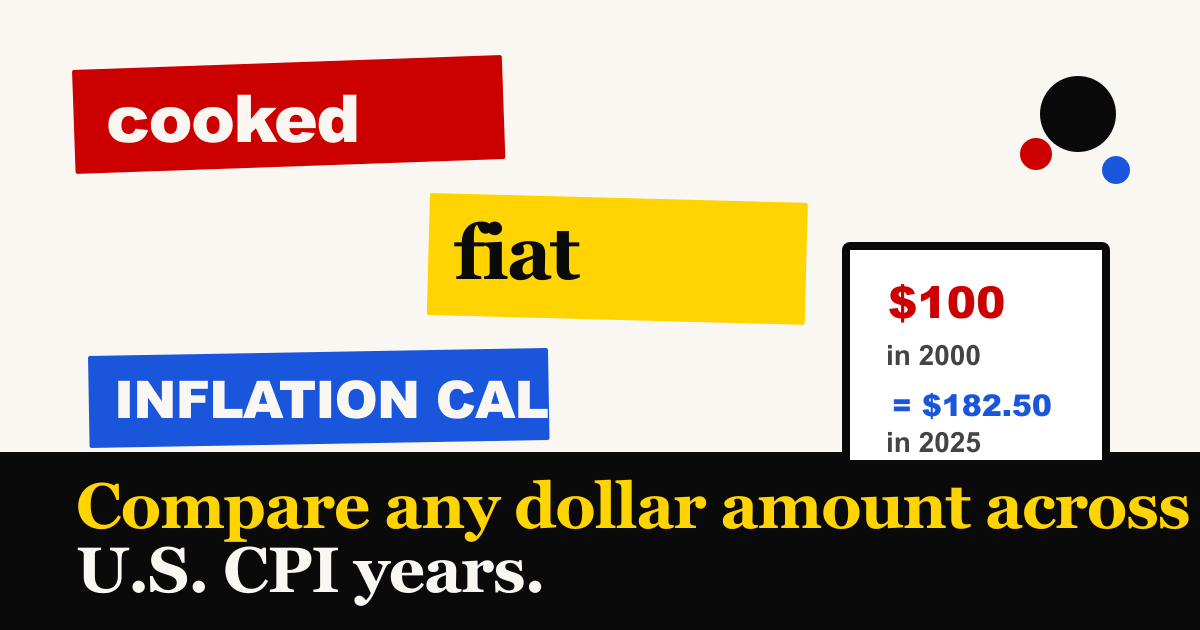
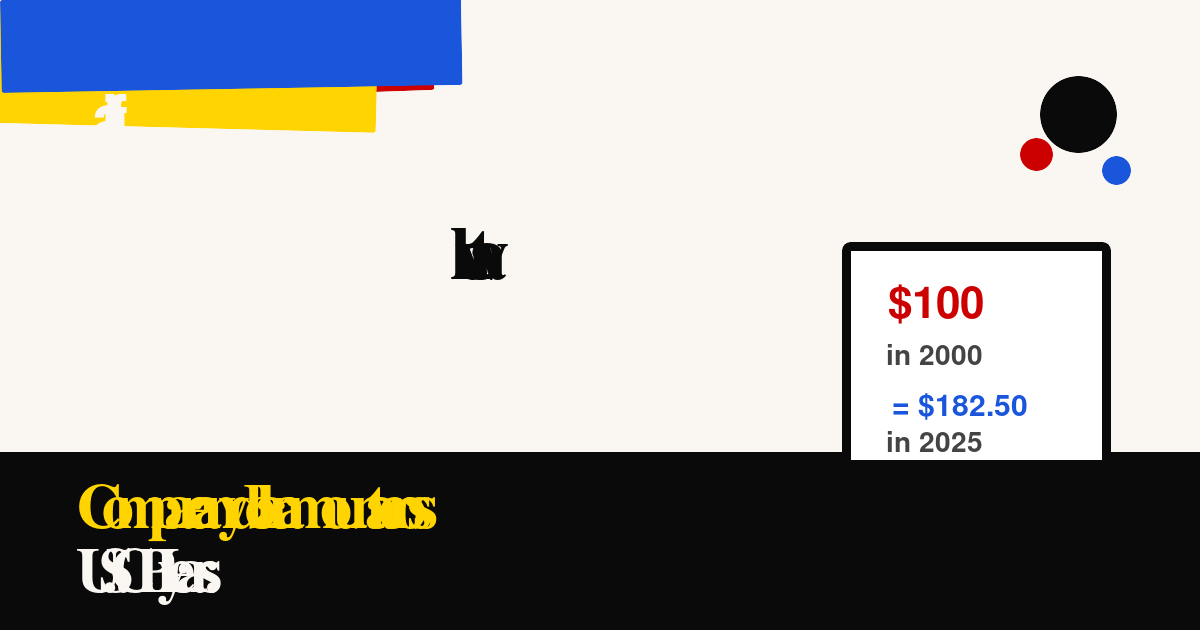
Rebrand app to Fiat Watch

diff --git a/app/controllers/seo_pages_controller.rb b/app/controllers/seo_pages_controller.rb
@@ -2,15 +2,15 @@ class SeoPagesController < ApplicationController
   PAGES = {
     "salary" => {
       path: "/salary-inflation-calculator",
-      title: "Salary Inflation Calculator With CPI Data | Cooked Fiat",
+      title: "Salary Inflation Calculator With CPI Data | Fiat Watch",
       heading: "Salary inflation calculator",
       description: "Compare a salary from one year to another using official BLS CPI data. See what old paychecks, raises, and job offers are worth in today's dollars.",
-      intro: "A raise can look bigger on paper than it feels in real life. Use Cooked Fiat to compare salaries across years and see whether compensation kept up with inflation.",
+      intro: "A raise can look bigger on paper than it feels in real life. Use Fiat Watch to compare salaries across years and see whether compensation kept up with inflation.",
       examples: [ "$45,000 in 2000", "$80,000 in 2015", "$100,000 in 1990" ]
     },
     "rent" => {
       path: "/rent-inflation-calculator",
-      title: "Rent Inflation Calculator With CPI Data | Cooked Fiat",
+      title: "Rent Inflation Calculator With CPI Data | Fiat Watch",
       heading: "Rent inflation calculator",
       description: "Compare rent prices across years with official BLS CPI data. Convert old monthly rent into today's purchasing power.",
       intro: "Rent is one of the clearest ways inflation shows up in everyday budgets. Compare an old lease, apartment listing, or housing cost against another year.",
@@ -18,7 +18,7 @@ class SeoPagesController < ApplicationController
     },
     "groceries" => {
       path: "/grocery-inflation-calculator",
-      title: "Grocery Inflation Calculator With CPI Data | Cooked Fiat",
+      title: "Grocery Inflation Calculator With CPI Data | Fiat Watch",
       heading: "Grocery inflation calculator",
       description: "Compare grocery spending across years with official BLS CPI data. Estimate what past food budgets mean in today's dollars.",
       intro: "Grocery budgets make inflation tangible. Convert an old weekly or monthly grocery bill into another year's dollars using the same CPI engine as the main calculator.",
@@ -26,7 +26,7 @@ class SeoPagesController < ApplicationController
     },
     "gas" => {
       path: "/gas-inflation-calculator",
-      title: "Gas Inflation Calculator With CPI Data | Cooked Fiat",
+      title: "Gas Inflation Calculator With CPI Data | Fiat Watch",
       heading: "Gas inflation calculator",
       description: "Compare gas prices across years with official BLS CPI data. Convert old fuel costs into today's dollars.",
       intro: "Gas prices are one of the easiest ways to feel inflation. Convert an old fill-up, gallon price, or fuel budget into another year's dollars.",
@@ -34,7 +34,7 @@ class SeoPagesController < ApplicationController
     },
     "car_prices" => {
       path: "/car-price-inflation-calculator",
-      title: "Car Price Inflation Calculator With CPI Data | Cooked Fiat",
+      title: "Car Price Inflation Calculator With CPI Data | Fiat Watch",
       heading: "Car price inflation calculator",
       description: "Compare car prices across years with official BLS CPI data. Convert old vehicle prices into today's dollars.",
       intro: "Sticker prices can be hard to compare across decades. Convert an old car price, loan amount, or down payment into another year's purchasing power.",
@@ -42,7 +42,7 @@ class SeoPagesController < ApplicationController
     },
     "college_tuition" => {
       path: "/college-tuition-inflation-calculator",
-      title: "College Tuition Inflation Calculator With CPI Data | Cooked Fiat",
+      title: "College Tuition Inflation Calculator With CPI Data | Fiat Watch",
       heading: "College tuition inflation calculator",
       description: "Compare college tuition and education costs across years with official BLS CPI data.",
       intro: "Tuition numbers move fast, and old prices can sound unreal. Convert tuition, fees, or student budgets into another year's dollars.",
@@ -50,7 +50,7 @@ class SeoPagesController < ApplicationController
     },
     "minimum_wage" => {
       path: "/minimum-wage-inflation-calculator",
-      title: "Minimum Wage Inflation Calculator With CPI Data | Cooked Fiat",
+      title: "Minimum Wage Inflation Calculator With CPI Data | Fiat Watch",
       heading: "Minimum wage inflation calculator",
       description: "See what an old hourly wage is worth today using official BLS CPI data.",
       intro: "Hourly pay only tells part of the story. Convert an old minimum wage, starting wage, or hourly rate into today's purchasing power.",

diff --git a/test/controllers/seo_pages_controller_test.rb b/test/controllers/seo_pages_controller_test.rb
@@ -5,10 +5,10 @@ class SeoPagesControllerTest < ActionDispatch::IntegrationTest
     get salary_inflation_calculator_path
 
     assert_response :success
-    assert_select "title", "Salary Inflation Calculator With CPI Data | Cooked Fiat"
+    assert_select "title", "Salary Inflation Calculator With CPI Data | Fiat Watch"
     assert_select "meta[name=?][content*=?]", "description", "Compare a salary"
     assert_select "link[rel=?][href$=?]", "canonical", salary_inflation_calculator_path
-    assert_select "meta[property=?][content=?]", "og:title", "Salary Inflation Calculator With CPI Data | Cooked Fiat"
+    assert_select "meta[property=?][content=?]", "og:title", "Salary Inflation Calculator With CPI Data | Fiat Watch"
     assert_select "meta[property=?][content*=?]", "og:description", "Compare a salary"
     assert_select "meta[property=?][content$=?]", "og:image", "/opengraph-card.png"
     assert_select "meta[property=?][content=?]", "og:image:width", "1200"
@@ -21,7 +21,7 @@ class SeoPagesControllerTest < ActionDispatch::IntegrationTest
     get rent_inflation_calculator_path
 
     assert_response :success
-    assert_select "title", "Rent Inflation Calculator With CPI Data | Cooked Fiat"
+    assert_select "title", "Rent Inflation Calculator With CPI Data | Fiat Watch"
     assert_select "h1", "Rent inflation calculator"
   end
 
@@ -29,7 +29,7 @@ class SeoPagesControllerTest < ActionDispatch::IntegrationTest
     get grocery_inflation_calculator_path
 
     assert_response :success
-    assert_select "title", "Grocery Inflation Calculator With CPI Data | Cooked Fiat"
+    assert_select "title", "Grocery Inflation Calculator With CPI Data | Fiat Watch"
     assert_select "h1", "Grocery inflation calculator"
   end
 
@@ -37,7 +37,7 @@ class SeoPagesControllerTest < ActionDispatch::IntegrationTest
     get gas_inflation_calculator_path
 
     assert_response :success
-    assert_select "title", "Gas Inflation Calculator With CPI Data | Cooked Fiat"
+    assert_select "title", "Gas Inflation Calculator With CPI Data | Fiat Watch"
     assert_select "h1", "Gas inflation calculator"
     assert_select "a[href=?]", "/#calc-heading"
 

diff --git a/test/controllers/calculations_controller_test.rb b/test/controllers/calculations_controller_test.rb
@@ -5,8 +5,8 @@ class CalculationsControllerTest < ActionDispatch::IntegrationTest
     get root_path
 
     assert_response :success
-    assert_select "title", "US Inflation Calculator With CPI Data | Cooked Fiat"
-    assert_select "meta[property=?][content=?]", "og:title", "US Inflation Calculator With CPI Data | Cooked Fiat"
+    assert_select "title", "US Inflation Calculator With CPI Data | Fiat Watch"
+    assert_select "meta[property=?][content=?]", "og:title", "US Inflation Calculator With CPI Data | Fiat Watch"
     assert_select "meta[property=?][content$=?]", "og:url", "/"
     assert_select "meta[property=?][content$=?]", "og:image", "/opengraph-card.png"
     assert_select "meta[name=?][content$=?]", "twitter:image", "/opengraph-card.png"
@@ -16,7 +16,7 @@ class CalculationsControllerTest < ActionDispatch::IntegrationTest
     get calculation_path, params: { amount: "100", from_year: "2000", to_year: CpiCalculator.latest_year }
 
     assert_response :success
-    assert_select "meta[property=?][content=?]", "og:title", "CPI Inflation Calculator: 2000 to #{CpiCalculator.latest_year} | Cooked Fiat"
+    assert_select "meta[property=?][content=?]", "og:title", "CPI Inflation Calculator: 2000 to #{CpiCalculator.latest_year} | Fiat Watch"
     assert_select "meta[property=?][content*=?]", "og:description", "same purchasing power"
     assert_select "[data-analytics-event-name-value=?]", "calculation_completed"
     assert_select "[data-analytics-params-value*=?]", '"amount":100.0'
@@ -24,7 +24,7 @@ class CalculationsControllerTest < ActionDispatch::IntegrationTest
     assert_select "[data-analytics-params-value*=?]", '"to_year":' + CpiCalculator.latest_year.to_s
     assert_select "aside[aria-label=?]", "Advertising" do
       assert_select "p", text: "Your ad here"
-      assert_select "a[href^=?]", "mailto:[email redacted]"
+      assert_select "a[href^=?]", "mailto:[email redacted]"
     end
   end
 

diff --git a/app/controllers/calculations_controller.rb b/app/controllers/calculations_controller.rb
@@ -45,10 +45,10 @@ class CalculationsController < ApplicationController
 
   def set_seo_for_index
     if @result
-      @page_title = "CPI Inflation Calculator: #{@result.from_year} to #{@result.to_year} | Cooked Fiat"
+      @page_title = "CPI Inflation Calculator: #{@result.from_year} to #{@result.to_year} | Fiat Watch"
       @meta_description = "#{@result.amount_formatted} in #{@result.from_year} has the same purchasing power as #{@result.converted_formatted} in #{@result.to_year}. #{@result.cumulative_inflation_text} CPI-based inflation calculator."
     else
-      @page_title = "US Inflation Calculator With CPI Data | Cooked Fiat"
+      @page_title = "US Inflation Calculator With CPI Data | Fiat Watch"
       @meta_description = "Find out what your money was really worth. Compare the purchasing power of any US dollar amount between #{CpiCalculator.earliest_year} and #{CpiCalculator.latest_year} using official BLS CPI data."
     end
     @canonical_path = canonical_path_for_current_request

diff --git a/app/controllers/sitemap_controller.rb b/app/controllers/sitemap_controller.rb
@@ -18,8 +18,8 @@ class SitemapController < ApplicationController
   end
 
   def show
-    @page_title = "Sitemap | Cooked Fiat"
-    @meta_description = "Browse Cooked Fiat inflation calculators and historical cost pages."
+    @page_title = "Sitemap | Fiat Watch"
+    @meta_description = "Browse Fiat Watch inflation calculators and historical cost pages."
     @canonical_path = html_sitemap_path
     @calculator_pages = CALCULATOR_PAGES.map { |label, route| [ label, public_send(route) ] }
     @cost_pages = AveragePriceCatalog.entries.group_by(&:first)

diff --git a/app/helpers/application_helper.rb b/app/helpers/application_helper.rb
@@ -1,8 +1,8 @@
 module ApplicationHelper
-  DEFAULT_PAGE_TITLE = "US Inflation Calculator With CPI Data | Cooked Fiat".freeze
+  DEFAULT_PAGE_TITLE = "US Inflation Calculator With CPI Data | Fiat Watch".freeze
   DEFAULT_META_DESCRIPTION = "Calculate what any US dollar amount was really worth in any year using official Bureau of Labor Statistics CPI data.".freeze
   DEFAULT_OG_IMAGE_PATH = "/opengraph-card.png".freeze
-  DEFAULT_OG_IMAGE_ALT = "Cooked Fiat inflation calculator social preview card".freeze
+  DEFAULT_OG_IMAGE_ALT = "Fiat Watch inflation calculator social preview card".freeze
 
   def page_title
     @page_title.presence || DEFAULT_PAGE_TITLE

diff --git a/test/controllers/cost_pages_controller_test.rb b/test/controllers/cost_pages_controller_test.rb
@@ -5,7 +5,7 @@ class CostPagesControllerTest < ActionDispatch::IntegrationTest
     get cost_page_path("gas", 1980)
 
     assert_response :success
-    assert_select "title", "How Much Did Gas Cost in 1980? | Cooked Fiat"
+    assert_select "title", "How Much Did Gas Cost in 1980? | Fiat Watch"
     assert_select "meta[name=?][content*=?]", "description", "Gas cost $1.25 per gallon in 1980"
     assert_select "link[rel=?][href$=?]", "canonical", cost_page_path("gas", 1980)
     assert_select "h1", "How much did gas cost in 1980?"
@@ -18,7 +18,7 @@ class CostPagesControllerTest < ActionDispatch::IntegrationTest
     get cost_page_path("ground-beef", 2020)
 
     assert_response :success
-    assert_select "title", "How Much Did Ground Beef Cost in 2020? | Cooked Fiat"
+    assert_select "title", "How Much Did Ground Beef Cost in 2020? | Fiat Watch"
     assert_select "h1", "How much did ground beef cost in 2020?"
     assert_select "p", /Ground beef averaged \$4\.12 per pound in 2020/
     assert_select "p", /APU0000703112/

diff --git a/test/controllers/sitemap_controller_test.rb b/test/controllers/sitemap_controller_test.rb
@@ -20,8 +20,8 @@ class SitemapControllerTest < ActionDispatch::IntegrationTest
     get html_sitemap_path
 
     assert_response :success
-    assert_select "title", "Sitemap | Cooked Fiat"
-    assert_select "h1", "Cooked Fiat sitemap"
+    assert_select "title", "Sitemap | Fiat Watch"
+    assert_select "h1", "Fiat Watch sitemap"
     assert_select "a[href=?]", root_path, text: "US inflation calculator"
     assert_select "a[href=?]", gas_inflation_calculator_path, text: "Gas inflation calculator"
     assert_select "a[href=?]", cost_page_path("gas", 1980), text: "1980"

diff --git a/app/controllers/cost_pages_controller.rb b/app/controllers/cost_pages_controller.rb
@@ -9,7 +9,7 @@ class CostPagesController < ApplicationController
     @year = params[:year].to_i
     @latest_year = CpiCalculator.latest_year
     @inflation_result = CpiCalculator.convert(amount: @year_price, from_year: @year, to_year: @latest_year)
-    @page_title = "How Much Did #{@item.question_name.titleize} Cost in #{@year}? | Cooked Fiat"
+    @page_title = "How Much Did #{@item.question_name.titleize} Cost in #{@year}? | Fiat Watch"
     @meta_description = "#{@item.question_name.capitalize} cost #{format_usd(@year_price)} #{@item.unit} in #{@year}, based on BLS average price data. See the inflation-adjusted value in #{@latest_year} dollars."
     @canonical_path = cost_page_path(@item.slug, @year)
   end

diff --git a/README.md b/README.md
@@ -1,6 +1,6 @@
-# Cooked Fiat
+# Fiat Watch
 
-Cooked Fiat is a Rails inflation calculator powered by U.S. BLS CPI-U data.
+Fiat Watch is a Rails inflation calculator powered by U.S. BLS CPI-U data.
 
 ## Analytics
 